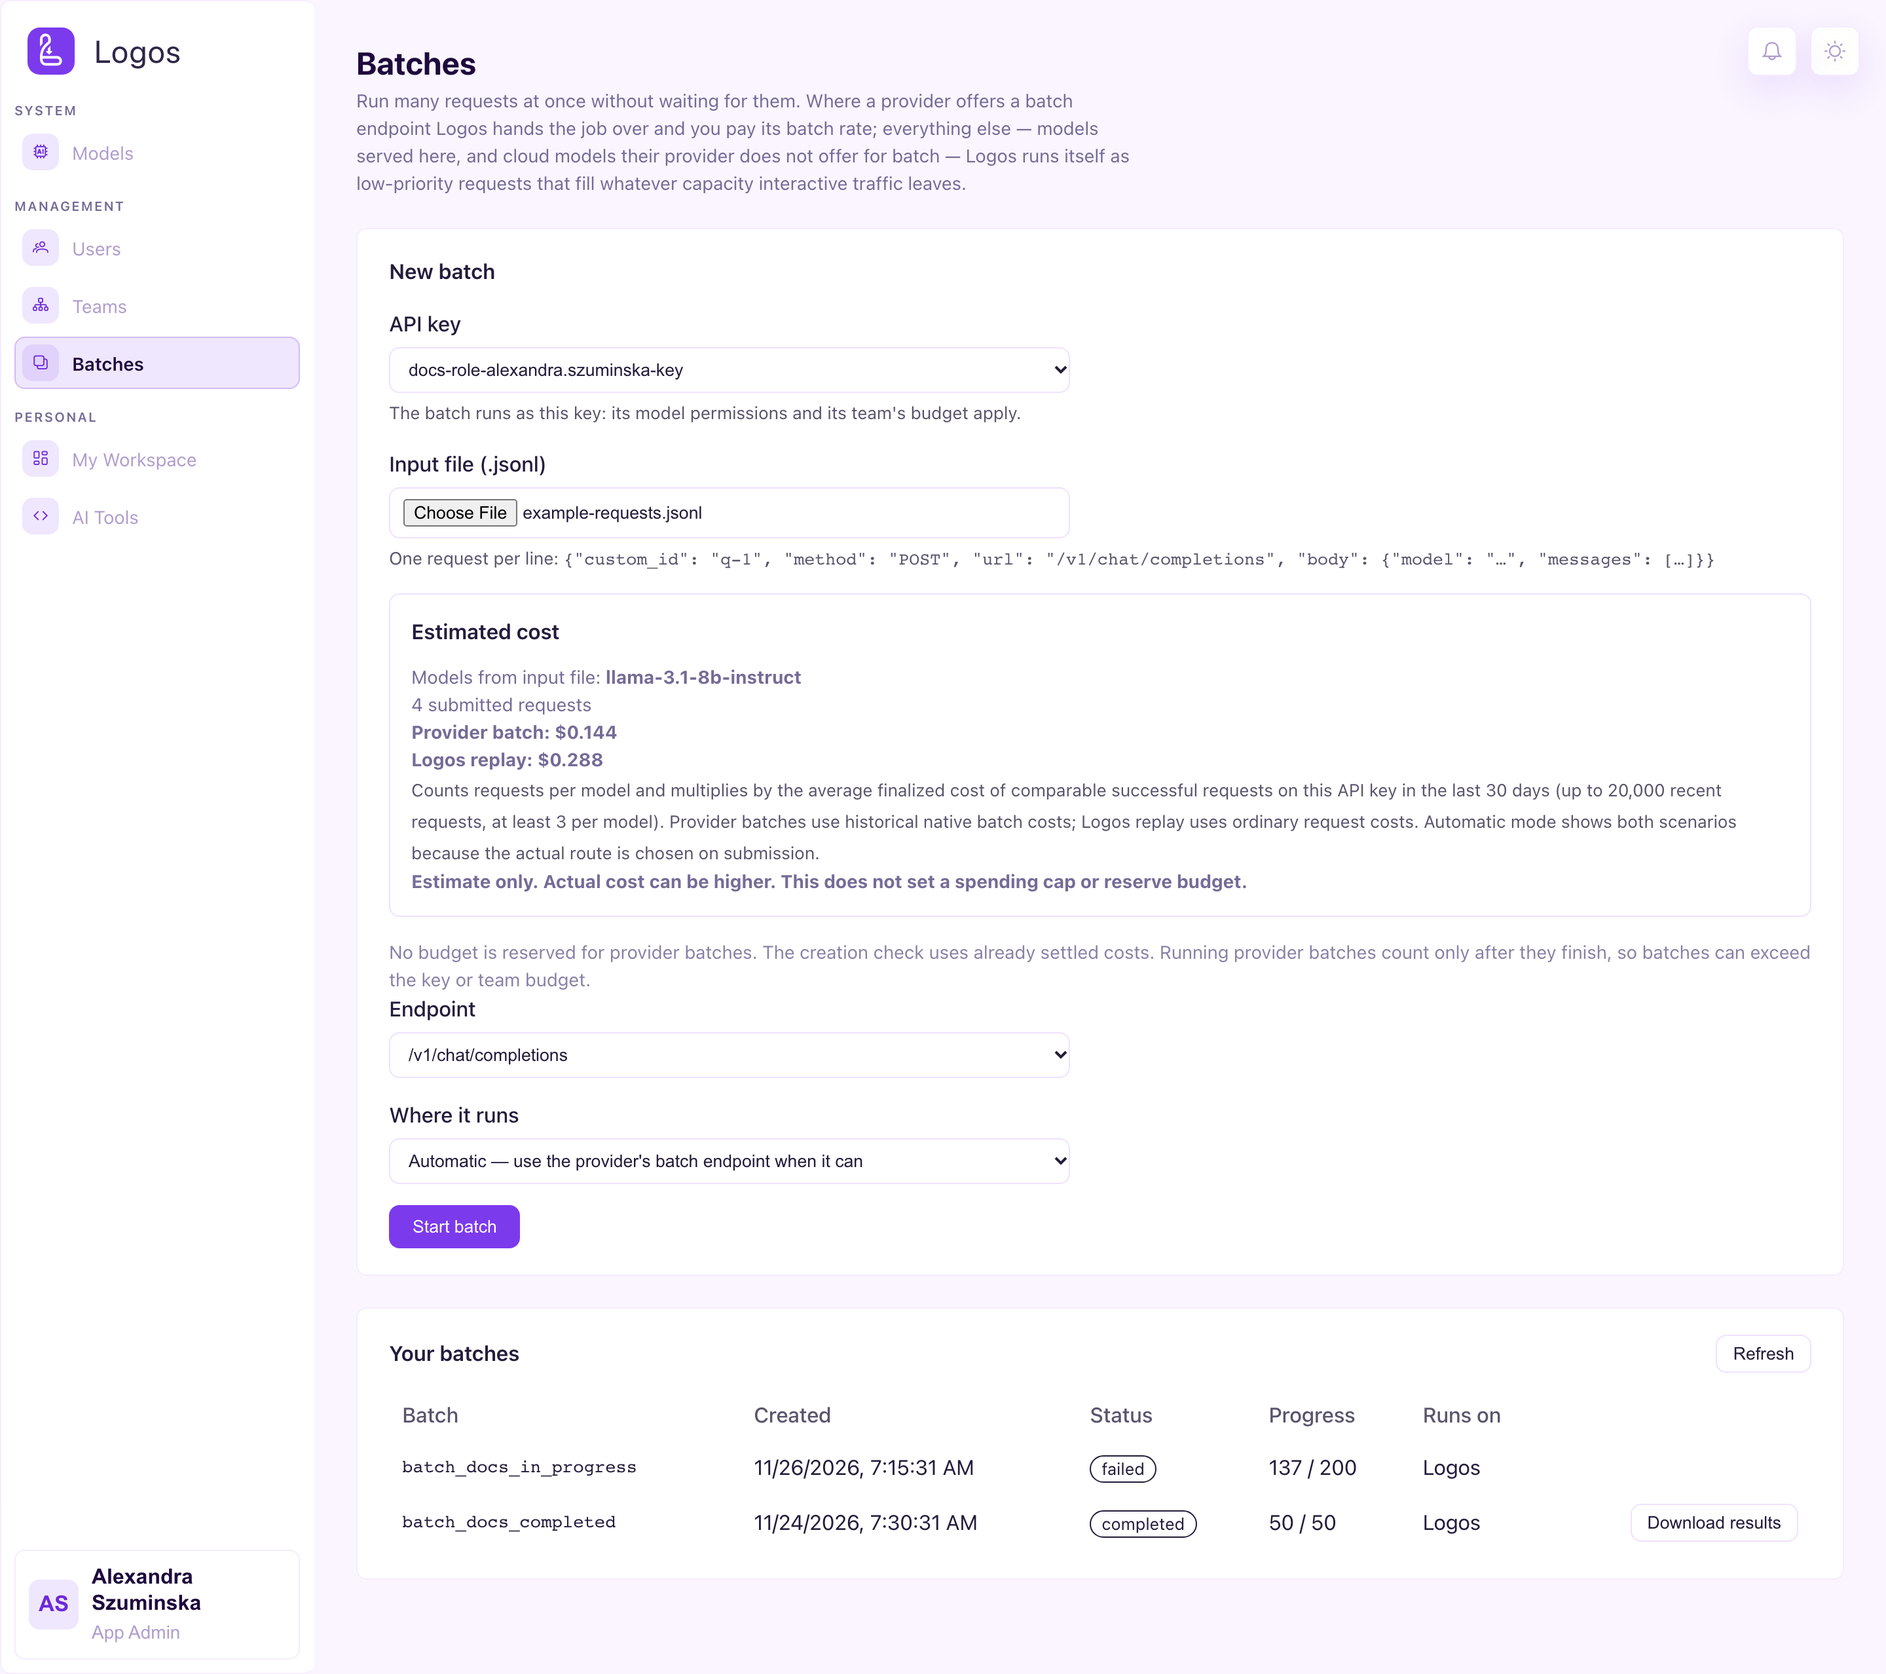
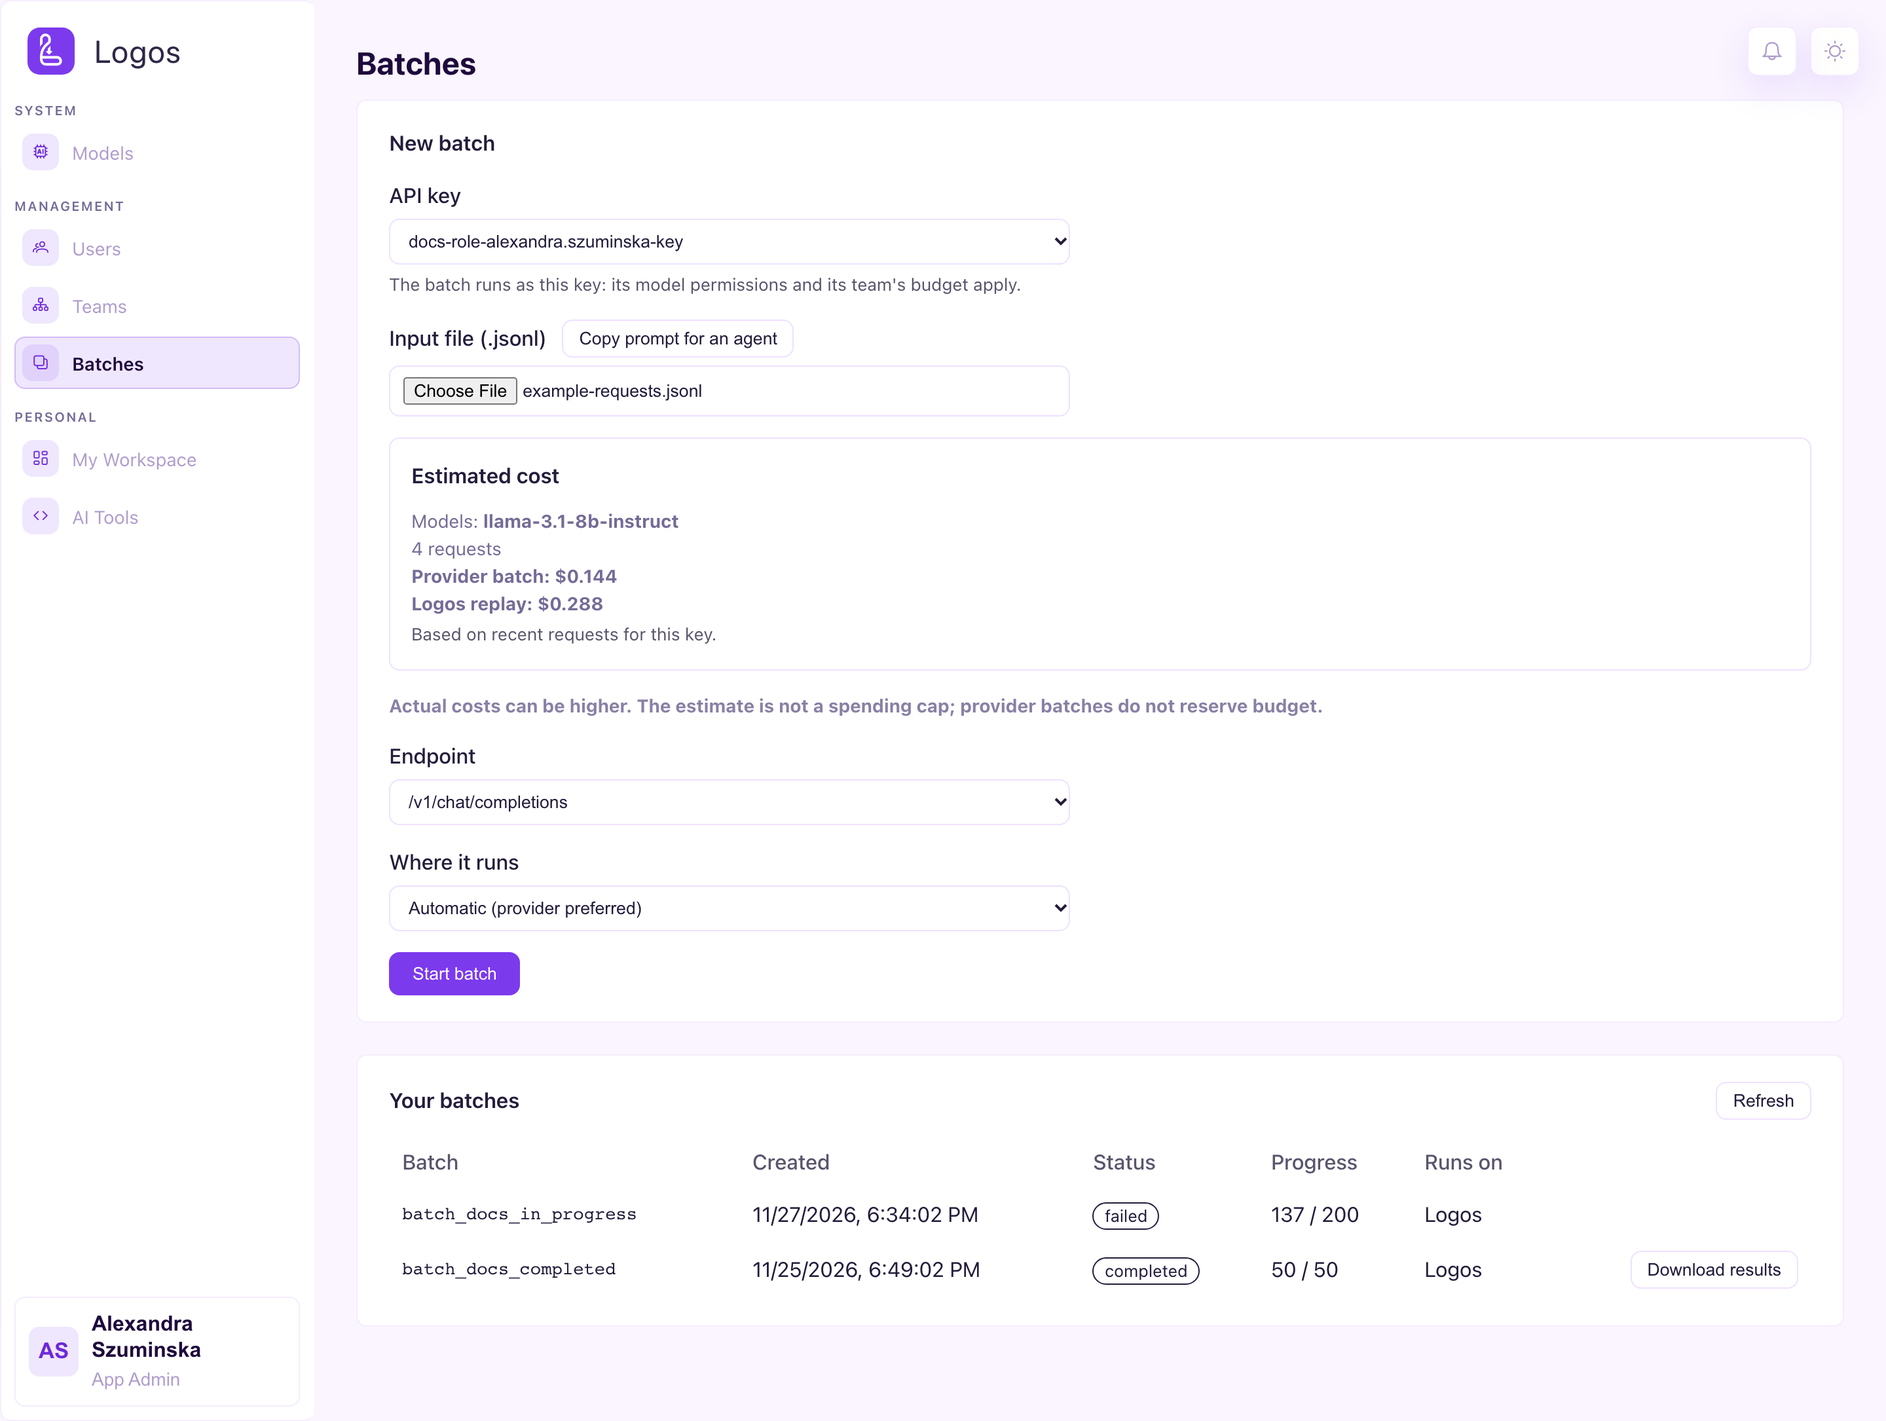
Simplify the Batches form and add a preparation prompt

diff --git a/logos-ui/src/app/features/batches/batches.html b/logos-ui/src/app/features/batches/batches.html
@@ -1,12 +1,5 @@
 <div class="batches">
   <h1 class="page-title">Batches</h1>
-  <p class="page-subtitle">
-    Run many requests at once without waiting for them. Where a provider offers a batch endpoint
-    Logos hands the job over and you pay its batch rate; everything else — models served here, and
-    cloud models their provider does not offer for batch — Logos runs itself as low-priority
-    requests that fill whatever capacity interactive traffic leaves.
-  </p>
-
   @if (keys().length === 0) {
     <p class="empty">You need an active API key to run a batch.</p>
   } @else {
@@ -23,14 +16,23 @@
         <small>The batch runs as this key: its model permissions and its team's budget apply.</small>
       </label>
 
-      <label class="field">
-        <span>Input file (.jsonl)</span>
-        <input type="file" accept=".jsonl,application/jsonl,text/plain" (change)="onFileSelected($event)" />
-        <small>
-          One request per line:
-          <code>{{ '{' }}"custom_id": "q-1", "method": "POST", "url": "/v1/chat/completions", "body": {{ '{' }}"model": "…", "messages": […]{{ '}' }}{{ '}' }}</code>
-        </small>
-      </label>
+      <div class="field">
+        <div class="input-heading">
+          <label for="batch-input-file">Input file (.jsonl)</label>
+          <button class="ghost" type="button" (click)="copyPreparationPrompt()">Copy prompt for an agent</button>
+        </div>
+        <input id="batch-input-file" type="file" accept=".jsonl,application/jsonl,text/plain" (change)="onFileSelected($event)" />
+        <div role="status">
+          @if (copyPromptStatus() === 'copied') {
+            <small>Prompt copied.</small>
+          } @else if (copyPromptStatus() === 'manual') {
+            <small>Clipboard unavailable. Copy the prompt below.</small>
+          }
+        </div>
+        @if (copyPromptStatus() === 'manual') {
+          <textarea class="manual-prompt" aria-label="Prompt for a batch preparation agent" readonly rows="6" [value]="preparationPrompt"></textarea>
+        }
+      </div>
 
       @if (readingFile()) {
         <p class="notice" role="status">Reading input file for the cost estimate…</p>
@@ -42,12 +44,12 @@
         <div class="estimate">
           <h3>Estimated cost</h3>
           <p class="estimate-models">
-            Models from input file:
+            Models:
             @for (model of summary.models; track model.name; let last = $last) {
               <strong>{{ model.name }}</strong>{{ last ? '' : ', ' }}
             }
           </p>
-          <p>{{ summary.requestCount | number }} submitted requests</p>
+          <p>{{ summary.requestCount | number }} requests</p>
           <div role="status" aria-live="polite">
             @if (loadingHistory()) {
               <p>Loading historical costs…</p>
@@ -59,25 +61,16 @@
                   @if (estimate.usd !== null) {
                     {{ estimate.usd | currency:'USD':'symbol':'1.2-6' }}
                   } @else {
-                    Estimate unavailable (not enough history for every model)
+                    Not enough history
                   }
                 </strong></p>
               }
             }
           </div>
-          <small>
-            Counts requests per model and multiplies by the average finalized cost of comparable successful requests
-            on this API key in the last 30 days (up to 20,000 recent requests, at least 3 per model).
-            Provider batches use historical native batch costs; Logos replay uses ordinary request costs.
-            Automatic mode shows both scenarios because the actual route is chosen on submission.
-          </small>
-          <p><strong>Estimate only. Actual cost can be higher. This does not set a spending cap or reserve budget.</strong></p>
+          <small>Based on recent requests for this key.</small>
         </div>
       }
-      <p class="notice">
-        No budget is reserved for provider batches. The creation check uses already settled costs.
-        Running provider batches count only after they finish, so batches can exceed the key or team budget.
-      </p>
+      <p class="notice"><strong>Actual costs can be higher. The estimate is not a spending cap; provider batches do not reserve budget.</strong></p>
 
       <label class="field">
         <span>Endpoint</span>
@@ -91,9 +84,9 @@
       <label class="field">
         <span>Where it runs</span>
         <select (change)="execution.set($any($event.target).value)">
-          <option value="auto">Automatic — use the provider's batch endpoint when it can</option>
-          <option value="logos">Run in Logos (low priority)</option>
-          <option value="provider">Provider only (fail if unavailable)</option>
+          <option value="auto">Automatic (provider preferred)</option>
+          <option value="logos">Logos replay (low priority)</option>
+          <option value="provider">Provider only</option>
         </select>
       </label>
 

diff --git a/logos-ui/src/app/features/batches/batch-preparation-prompt.ts b/logos-ui/src/app/features/batches/batch-preparation-prompt.ts
@@ -1,0 +1,10 @@
+/** A static, shareable prompt. Never interpolate the current file, key, or clipboard contents. */
+export const BATCH_PREPARATION_PROMPT = `Help me prepare an input file for Logos Batches. Prepare it locally for my review; do not upload it, submit a batch, or make a generation request. Ask only for missing task inputs, the intended model or execution mode, and the expected output length. Do not ask me to paste credentials. Keep API keys, auth headers, tokens and other secrets out of the file and anything you give me to copy. Do not send my input to an external token counter without my explicit approval.
+
+1. Create requests.jsonl as UTF-8: one JSON object per line, no array or Markdown fences. Each line needs a unique non-empty "custom_id", "method":"POST", "url", and a "body" with the canonical, permitted Logos "model" name (not an alias or a provider deployment ID). Choose one URL for the entire file: /v1/chat/completions (body.messages), /v1/responses (body.input), or /v1/embeddings (body.input). Tell me which Endpoint to select in Logos. Avoid streaming and send self-contained inputs: no previous_response_id, conversation, or item_reference. Use only body fields supported by that endpoint and model. Validate the JSONL, unique IDs, same URL, and required body fields; the defaults are at most 50,000 requests and 50 MiB per file. Verify model names against my authorized Logos catalogue if available; GET /v1/models can include aliases and does not provide prices or guarantee Batch eligibility. If model or endpoint compatibility cannot be verified, tell me what to check before submitting.
+
+2. Give the request count per model. Logos's rough UI quote is count × recent average settled cost on the same key, separately for provider batch and Logos replay. For a more detailed estimate, count input tokens per request with the matching model's tokenizer, including message formatting, instructions and tool schemas when applicable. Use a verified input-only token-counting route only if the selected model/backend actually provides one (for example POST /tokenize on a supported vLLM deployment); otherwise tokenize locally or label the counts as approximate. Never estimate by running requests. Actual output is unknown: state an expected output length and a higher scenario. If the requests have a supported cap (Responses max_output_tokens; Chat max_completion_tokens, or max_tokens only where supported), use it for the capped scenario; otherwise label the higher number an assumption, not a bound. Do not silently add a cap to my requests. Embeddings have no generated text output.
+
+3. For rates in USD per 1,000 tokens, estimate each request as (input tokens × input rate + assumed output tokens × output rate) ÷ 1,000; sum the requests and state the source, units, mode, and exclusions such as caching, reasoning, tools or media. Use verified rates for this model/provider/mode, with no assumed batch discount. The signed-in admin web app can use GET /api/logosdb/batches/prices?apiKeyId=<owned-key-id>: model_name, input_price_per_k_tokens and output_price_per_k_tokens are standard text rates in micro-cents per 1,000 tokens (divide the rates by 100,000,000 for USD per 1,000 tokens). They use the highest priced permitted deployment/tier and are not provider batch rates. For provider batch use a verified rate for that provider, model, context tier and mode. A Logos Admin can inspect the model’s Prices tab; general catalogue rows are not proof of the selected key’s eligibility. Do not pass standard pricing off as batch pricing. Missing or null rates are unknown, not zero. If any required input cannot be verified, label that estimate unavailable instead of inventing a price.
+
+Return the file, assumptions and estimates separately, then tell me how to review the file, select the intended key and matching Endpoint in Logos, and start it myself if I choose.`;

diff --git a/logos-ui/src/app/features/batches/batches.spec.ts b/logos-ui/src/app/features/batches/batches.spec.ts
@@ -3,6 +3,7 @@ import { provideHttpClient } from '@angular/common/http';
 import { HttpTestingController, provideHttpClientTesting } from '@angular/common/http/testing';
 
 import { Batches } from './batches';
+import { BATCH_PREPARATION_PROMPT } from './batch-preparation-prompt';
 import { BatchObject } from '../../core/services/batch.service';
 import { summarizeBatchInput } from './batch-estimate';
 
@@ -141,4 +142,63 @@ describe('Batches', () => {
     expect(page.estimateError()).toContain('line 1');
   });
 
+  describe('the preparation prompt button', () => {
+    let originalClipboard: PropertyDescriptor | undefined;
+
+    beforeEach(() => {
+      originalClipboard = Object.getOwnPropertyDescriptor(navigator, 'clipboard');
+    });
+
+    afterEach(() => {
+      if (originalClipboard) {
+        Object.defineProperty(navigator, 'clipboard', originalClipboard);
+      } else {
+        Reflect.deleteProperty(navigator, 'clipboard');
+      }
+    });
+
+    async function renderWithClipboard(writeText: (value: string) => Promise<void>) {
+      Object.defineProperty(navigator, 'clipboard', { value: { writeText }, configurable: true });
+      const fixture = TestBed.createComponent(Batches);
+      const http = TestBed.inject(HttpTestingController);
+      fixture.detectChanges();
+      http.expectOne('/api/logosdb/batches/keys').flush([
+        { id: 1, name: 'Synthetic key name', team_id: null, environment: null },
+      ]);
+      await Promise.resolve();
+      http.expectOne('/api/logosdb/batches?apiKeyId=1').flush({ data: [] });
+      await fixture.whenStable();
+      fixture.detectChanges();
+      const host: HTMLElement = fixture.nativeElement;
+      const button = [...host.querySelectorAll('button')]
+        .find(candidate => candidate.textContent?.trim() === 'Copy prompt for an agent');
+      expect(button).toBeDefined();
+      button!.click();
+      await fixture.whenStable();
+      fixture.detectChanges();
+      http.verify(); // Copying must not make network requests, including uploads or submission.
+      return { fixture, host };
+    }
+
+    it('copies only the static preparation prompt and announces success', async () => {
+      const writeText = vi.fn().mockResolvedValue(undefined);
+      const { fixture, host } = await renderWithClipboard(writeText);
+      expect(writeText).toHaveBeenCalledExactlyOnceWith(BATCH_PREPARATION_PROMPT);
+      expect(writeText.mock.calls[0][0]).not.toContain('Synthetic key name');
+      expect(host.querySelector('[role="status"]')?.textContent).toContain('Prompt copied.');
+      expect(host.querySelector('textarea')).toBeNull();
+      fixture.destroy();
+    });
+
+    it('makes the same prompt selectable when the clipboard is unavailable', async () => {
+      const { fixture, host } = await renderWithClipboard(
+        vi.fn().mockRejectedValue(new Error('clipboard denied')),
+      );
+      const textarea = host.querySelector('textarea');
+      expect(host.querySelector('[role="status"]')?.textContent).toContain('Clipboard unavailable.');
+      expect(textarea?.readOnly).toBe(true);
+      expect(textarea?.value).toBe(BATCH_PREPARATION_PROMPT);
+      fixture.destroy();
+    });
+  });
 });

diff --git a/logos-ui/src/app/features/batches/batches.ts b/logos-ui/src/app/features/batches/batches.ts
@@ -11,6 +11,7 @@ import { CommonModule } from '@angular/common';
 import { BatchKey, BatchHistoricalModelCost, BatchObject, BatchService } from '../../core/services/batch.service';
 
 import { BatchInputSummary, estimateHistoricalBatchCost, summarizeBatchInput } from './batch-estimate';
+import { BATCH_PREPARATION_PROMPT } from './batch-preparation-prompt';
 
 /** Batch states the provider (or Logos) will not move away from on its own. */
 const TERMINAL = new Set(['completed', 'failed', 'expired', 'cancelled']);
@@ -34,6 +35,9 @@ const TERMINAL = new Set(['completed', 'failed', 'expired', 'cancelled']);
 })
 export class Batches implements OnInit, OnDestroy {
   private batchService = inject(BatchService);
+
+  readonly preparationPrompt = BATCH_PREPARATION_PROMPT;
+  readonly copyPromptStatus = signal<'idle' | 'copied' | 'manual'>('idle');
 
   keys = signal<BatchKey[]>([]);
   selectedKeyId = signal<number | null>(null);
@@ -95,6 +99,15 @@ export class Batches implements OnInit, OnDestroy {
   ngOnDestroy(): void {
     if (this.pollHandle) {
       clearInterval(this.pollHandle);
+    }
+  }
+
+  async copyPreparationPrompt(): Promise<void> {
+    try {
+      await navigator.clipboard.writeText(this.preparationPrompt);
+      this.copyPromptStatus.set('copied');
+    } catch {
+      this.copyPromptStatus.set('manual');
     }
   }
 

diff --git a/logos-ui/src/app/features/batches/batches.scss b/logos-ui/src/app/features/batches/batches.scss
@@ -6,9 +6,8 @@
   box-sizing: border-box;
 }
 
-.batches .page-subtitle {
-  margin-bottom: 24px;
-  max-width: 68ch;
+.batches .page-title {
+  margin-bottom: 16px;
 }
 
 .card {
@@ -45,7 +44,7 @@
 
   select,
   input[type='file'],
-  input[type='number'] {
+  textarea {
     box-sizing: border-box;
     width: 100%;
     max-width: 520px;
@@ -60,13 +59,22 @@
     display: block;
     margin-top: 6px;
     opacity: 0.75;
-
-    code {
-      // The example line is long on purpose; let it wrap rather than pushing
-      // the panel wider than the viewport.
-      overflow-wrap: anywhere;
-    }
   }
+}
+
+.input-heading {
+  display: flex;
+  flex-wrap: wrap;
+  align-items: center;
+  gap: 8px 12px;
+  margin-bottom: 6px;
+  font-weight: 500;
+}
+
+.manual-prompt {
+  display: block;
+  margin-top: 6px;
+  resize: vertical;
 }
 
 button.primary {
@@ -196,6 +204,7 @@ table {
 }
 
 .notice {
+  margin: 0 0 16px;
   opacity: 0.85;
 }
 

diff --git a/docs/batch-processing.md b/docs/batch-processing.md
@@ -311,6 +311,13 @@ batch shows its progress. A finished batch offers its results as a download. You
 can cancel a batch that is not finished. The page refreshes every 30 seconds
 while a batch is in progress.
 
+If you do not have a file yet, select **Copy prompt for an agent** beside
+**Input file (.jsonl)**. Paste the prompt into your agent with your task and
+non-secret inputs. It asks the agent to prepare and validate the file locally,
+explain the cost assumptions, and leave uploading and starting the batch to
+you. Do not paste API keys or other credentials. Verify the file and choose
+the matching **Endpoint** before starting.
+
 The **New batch** form reads model names and counts request lines in the input file.
 For each model it multiplies that count by the average finalized cost of comparable
 successful requests on the selected key, then adds the estimates. The sample covers

diff --git a/docs/roles/app-admin.md b/docs/roles/app-admin.md
@@ -301,7 +301,10 @@ at the progress of the job and download the result file. For the server-side
 process, see [batch processing](../batch-processing.md). The page is the same
 for every role that can open it (App Admin and Logos Admin).
 
-In **New batch**, select your developer key and an input file.
+In **New batch**, select your developer key and an input file. If you need
+help creating the file, select **Copy prompt for an agent**. The prompt prepares
+the agent to help with the file and cost estimate, without submitting a batch.
+
 The form counts requests per model and estimates the cost from recent
 successful requests on the selected key. Automatic mode shows separate
 estimates for provider batch and Logos replay. If any model lacks enough
